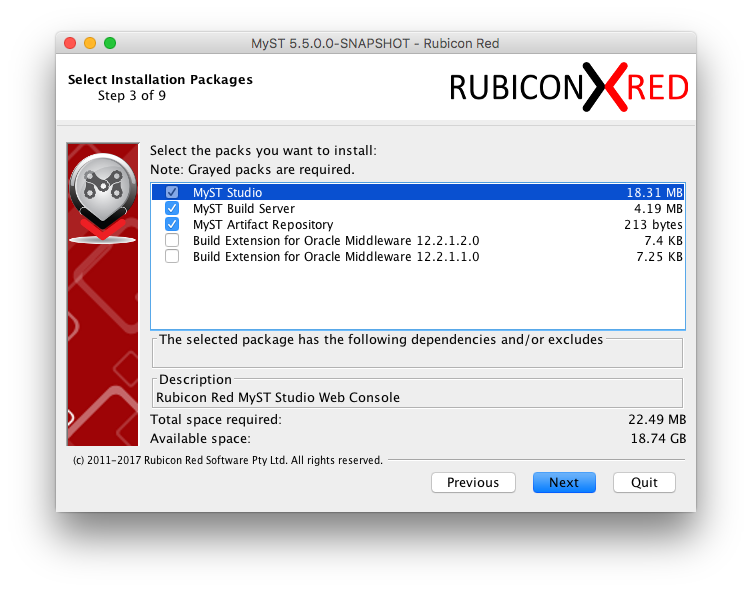
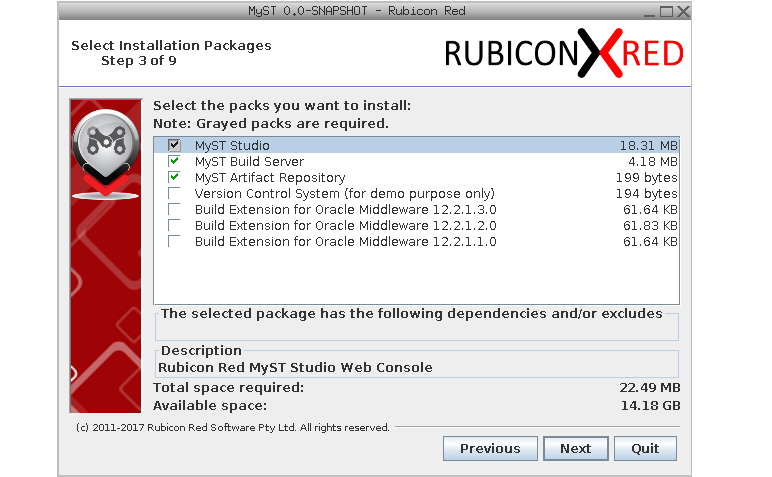
Updated installation for 12.2.1.3.0 build extensions

diff --git a/installation/myst-studio/README.md b/installation/myst-studio/README.md
@@ -62,6 +62,7 @@ Optionally, you can choose:
  * **MyST Build Server**: Pre-configured Build Server for use with MyST for if you don't already have one.
  * **MyST Artifact Repository**: Pre-configured Maven Artifact Repository for if you don't already have one.
  * **Build Extension for Oracle Middleware**: Enables automated build for applications build on SOA, BPM, OSB, ADF and other products related to Oracle Middleware. When you choose this, it will automatically select **MyST Build Server** if it is not already selected. The Build Extensions are currently supported for:
+  * 12.2.1.3.0
   * 12.2.1.2.0
   * 12.2.1.1.0
 
@@ -120,23 +121,30 @@ If you are yet to start the stack, please continue on to the next steps. MyST wi
 
 ## Configuring Build Extensions
 
-If you choose the **Build Extensions for Oracle Middleware** then you will need to download Oracle installers and place them in the MyST home at the following locations depending on the versions you chose
+If you choose the **Build Extensions for Oracle Middleware** then you will need to download Oracle installers and a JDK. Place them in the MyST home at the following locations depending on the versions you chose:
+
+{% hint style='info' %}
+Build Extensions in docker data containers are deprecated. MyST 5.8.6 uses docker volume mounts.
+
+Docker volume mounts allow Oracle installers to be installed on the filesystem then volume mounted to the MyST Build Server docker container.
+{% endhint %}
 
 | Version | File |
 | --- | -- |
-| All | `conf/fmw/context/jdk/jdk-8u121-linux-x64.tar.gz` |
-| 12.2.1.2.0 | `conf/fmw/context/12.2.1.2.0/installers/fmw_12.2.1.2.0_infrastructure.jar` |
-| 12.2.1.2.0 | `conf/fmw/context/12.2.1.2.0/installers/fmw_12.2.1.2.0_osb.jar` |
-| 12.2.1.2.0 | `conf/fmw/context/12.2.1.2.0/installers/fmw_12.2.1.2.0_soa.jar` |
-| 12.2.1.1.0 | `conf/fmw/context/12.2.1.1.0/installers/fmw_12.2.1.2.0_infrastructure.jar` |
-| 12.2.1.1.0 | `conf/fmw/context/12.2.1.1.0/installers/fmw_12.2.1.2.0_osb.jar` |
-| 12.2.1.1.0 | `conf/fmw/context/12.2.1.1.0/installers/fmw_12.2.1.2.0_soa.jar` |
+| 12.2.1.1.0 | conf/fmw/context/jdk/jdk-8u121-linux-x64.tar.gz<br> conf/fmw/context/12211/installers/fmw_12.2.1.1.0_infrastructure.jar<br> conf/fmw/context/12211/installers/fmw_12.2.1.1.0_osb.jar<br> conf/fmw/context/12211/installers/fmw_12.2.1.1.0_soa.jar |
+| 12.2.1.2.0 | conf/fmw/context/jdk/jdk-8u121-linux-x64.tar.gz<br> conf/fmw/context/12212/installers/fmw_12.2.1.2.0_infrastructure.jar<br> conf/fmw/context/12212/installers/fmw_12.2.1.2.0_osb.jar<br> conf/fmw/context/12212/installers/fmw_12.2.1.2.0_soa.jar |
+| 12.2.1.3.0 | conf/fmw/context/jdk/jdk-8u131-linux-x64.tar.gz<br> conf/fmw/context/12213/installers/fmw_12.2.1.3.0_infrastructure.jar<br> conf/fmw/context/12213/installers/fmw_12.2.1.3.0_osb.jar<br> conf/fmw/context/12213/installers/fmw_12.2.1.3.0_soa.jar |
 
-Once the Oracle installers are placed in the desired locations, you will need to build the FMW extensions by executing the following:
+Once the Oracle installers are placed in the desired locations, you will need to install FMW by executing the following:
 
 ```
-./bin/build-fmw-extensions.sh
+cd /opt/myst-studio/fmw
+./install-fmw.sh
 ```
+
+{% hint style='info' %}
+For version 12.2.1.3.0 the `install-fmw.sh` script will also fix Oracle Maven Plugin dependency errors.
+{% endhint %}
 
 ## Starting the MyST Studio Stack
 
@@ -154,7 +162,7 @@ You can see the details of your running instances by executing `docker ps` from 
 
 If you choose **Build Extensions for Oracle Middleware** when installing MyST, Maven must be configured on the build server, before you can build applications to run on products such as SOA, BPM, OSB and ADF. This can be done by simply executing the following from the MyST Studio home:
 ```
-cd bin
+cd /opt/myst-studio/bin
 ./configure-maven.sh
 ```
 {% hint style='info' %}
